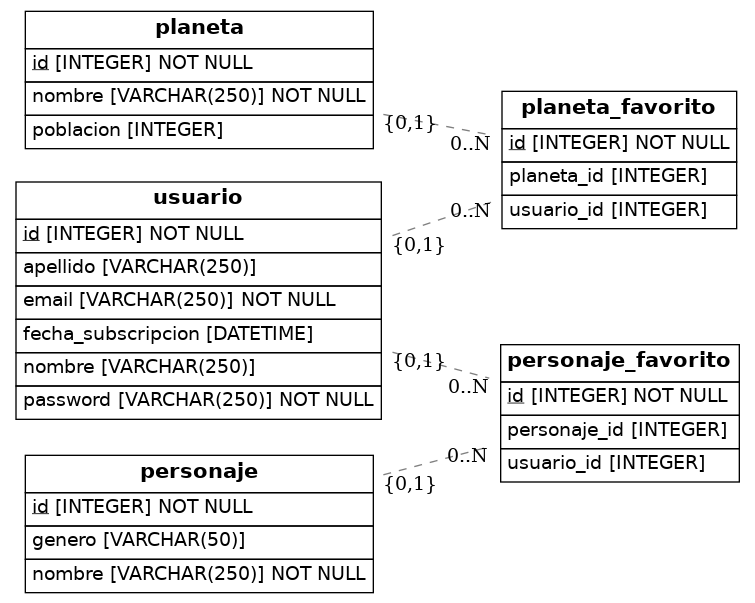
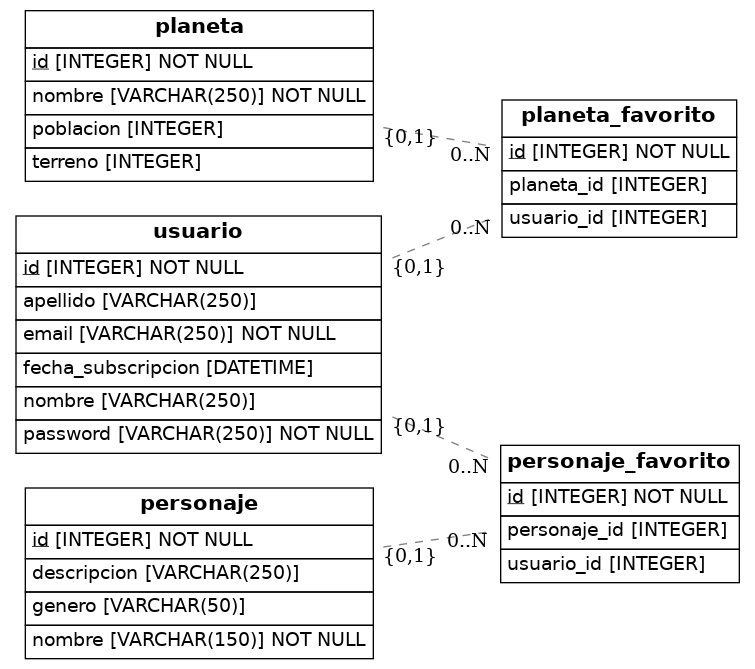
exercise done

Changed region(s): [[0.0, 0.0, 1.0, 1.0], [0.5788, 0.1493, 0.9748, 0.3881], [0.5483, 0.1791, 0.5788, 0.209]]

diff --git a/src/models.py b/src/models.py
@@ -15,8 +15,7 @@ class Usuario(Base):
     password = Column(String(250), nullable=False)
     nombre = Column(String(250))
     apellido = Column(String(250))
-    fecha_subscripcion = Column(DateTime, default=datetime.utcnow)  # Agregado para la fecha de suscripción
-
+    fecha_subscripcion = Column(DateTime, default=datetime.utcnow)
     planetas_favoritos = relationship('PlanetaFavorito', foreign_keys='PlanetaFavorito.usuario_id', cascade='all,delete')
     personajes_favoritos = relationship('PersonajeFavorito', foreign_keys='PersonajeFavorito.usuario_id', cascade='all,delete')
 
@@ -24,15 +23,17 @@ class Planeta(Base):
     __tablename__ = 'planeta'
     id = Column(Integer, primary_key=True)
     nombre = Column(String(250), nullable=False)
-    poblacion = Column(Integer)  # Agregado para la población del planeta
-
+    poblacion = Column(Integer)
+    terreno = Column(Integer)
     planetas_favoritos = relationship('PlanetaFavorito', foreign_keys='PlanetaFavorito.planeta_id', cascade='all,delete')
 
 class Personaje(Base):
     __tablename__ = 'personaje'
     id = Column(Integer, primary_key=True)
-    nombre = Column(String(250), nullable=False)
-    genero = Column(String(50))  # Agregado para el género del personaje
+    nombre = Column(String(150), nullable=False)
+    descripcion = Column(String(250))
+    altura = Column(Integer)
+    genero = Column(String(50))
     personajes_favoritos = relationship('PersonajeFavorito', foreign_keys='PersonajeFavorito.personaje_id', cascade='all,delete')
 
 class PlanetaFavorito(Base):
